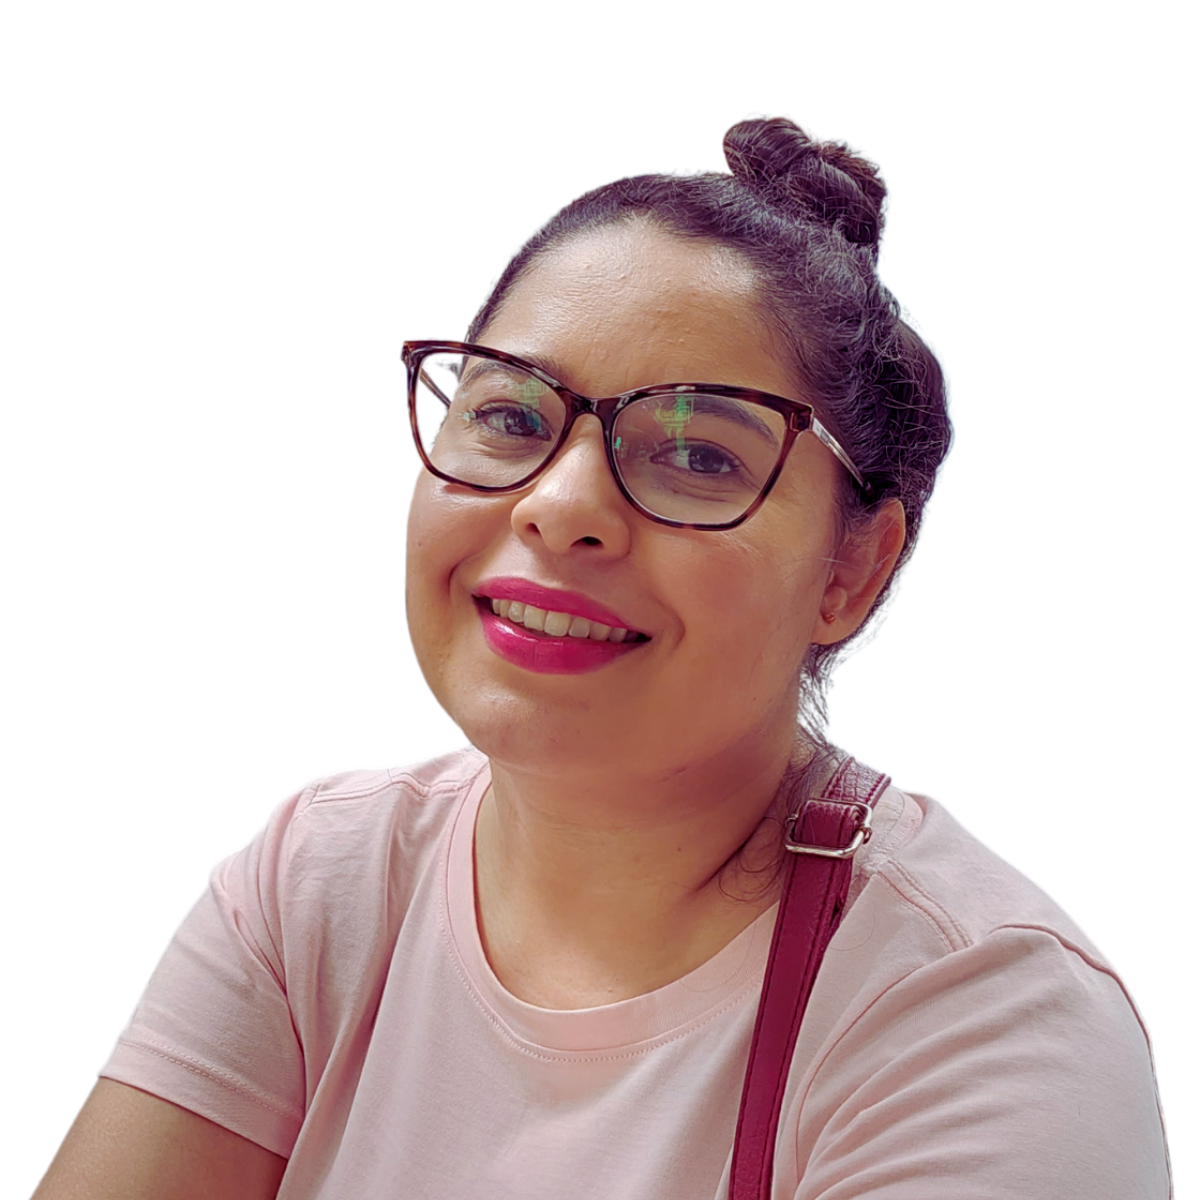
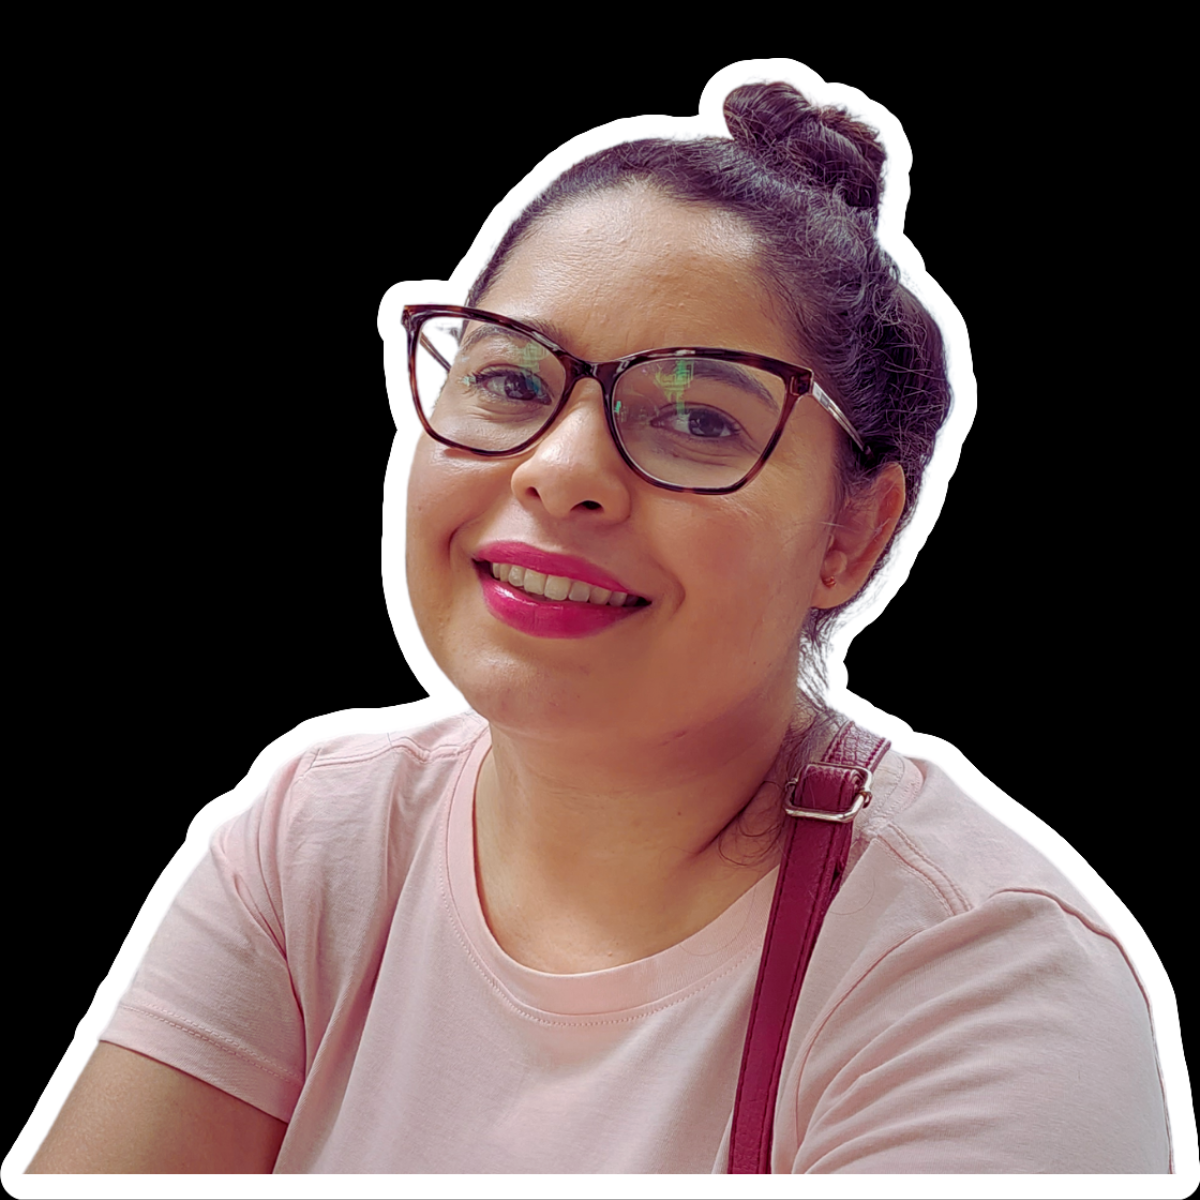
Cria o JS e finaliza o CSS

diff --git a/src/index.html b/src/index.html
@@ -17,59 +17,80 @@
 <body>
   <main class="cartao">
     <div class="minhas-informacoes">
-      <img class="foto" src="./image/AyanaraNathane.png" alt="AyanaraNathane" width="200">
+      <img class="foto" src="./image/AyanaraFundoamarelo.png" alt="AyanaraNathane" width="200">
       <h1 class="nome">Ayanara Nathane</h1>
       <h3 class="cargo">Estudante de Desenvolvimento Web</h3>
       <h3 class="cargo">Full-Stack</h3>
     </div>
     <div class="conteudo">
       <ul class="abas">
-        <li class="aba selecionada">
-          <i class="bi bi-person-heart"></i>
+        <li class="aba selecionado" id="sobre-mim">
+          <h1 class="bi bi-house-heart-fill"></h1>
         </li>
-        <li class="aba">
-          <i class="bi bi-share-fill"></i>
+        <li class="aba" id="minhas-redes">
+          <h1 class="bi bi-share-fill"></h1>
         </li>
-        <li class="aba">
-          <i class="bi bi-chat-left-heart-fill"></i>
+        <li class="aba" id="contato">
+          <h1 class="bi bi-chat-left-heart-fill"></h1>
         </li>
 
       </ul>
 
       <div class="informacoes-abas">
-        <div class="informacoes selecionado">
+        <div class="informacoes selecionado" id="informacao-sobre-mim">
           <h3>Sobre mim</h3>
           <div>
             <p>Oi! meu nome é Ayanara Nathane, seja bem vindas e vindos!</p>
             <p>Sempre em busca de conhecimento e novos aprendizados.
               Atualmente sou estudante de <span>desenvolvimento WEB, Full-Stack.</span>
               Programar esta sendo um desafio constante, porém, uma experiência 
-              muito gratificante. Além de estudar  Front End e Back End, também 
+              muito gratificante. Além de estudar  <span>Front-End e Back-End</span> , também 
               gosto de estudar <span>User experience</span> , pois encontrei nessa área uma 
               forma de melhor suprir as necessidades do usuário. 
-              E não posso esquecer da minha  formação em Licenciatura em 
-              Ciências Sociais, tendo como maior interesses tudo que  envolve o 
+              E não posso esquecer da minha formação em <span>
+              Ciências Sociais</span>, tendo como maior interesses tudo que  envolve o 
               ser humano, a sociedade e seu desenvolvimento social.</p>
           </div>
         </div>
       
-      <div class="redes-sociais">
-        <h3>Minhas redes</h3>
+      <div class="redes-sociais informacoes" id="informacao-minhas-redes">
+        <h3>Minhas Redes</h3>
         <ul>
-          <li><a href="https://www.linkedin.com/in/ayanara/" target="_blank">Linkedin</a></li>
-          <li><a href="https://github.com/ayanara" target="_blank">GitHub</a></li>
-          <li><a href="https://www.behance.net/ayanaranathane" target="_blank">Behance</a></li>
+          <li>
+            <a class="bi bi-linkedin"
+            href="https://www.linkedin.com/in/ayanara/" 
+            target="_blank">Linkedin</a>
+          </li>
+          <li>
+            <a class="bi bi-github"
+            href="https://github.com/ayanara" 
+            target="_blank">GitHub</a>
+          </li>
+          <li>
+            <a class="bi bi-behance"
+            href="https://www.behance.net/ayanaranathane" 
+            target="_blank">Behance</a>
+          </li>
         </ul>
       </div>
-      <div class="contato">
+      <div class="contato informacoes" id="informacao-contato">
         <h3>Contado</h3>
-        <p>Fale comigo</p>
+        <form class="form">
+          <div>
+            <input type="text" id="name" name="name" placeholder="Seu nome">
+            <input type="email" id="email" name="email" placeholder="Seu email">
+            <textarea name="duvida" rows="4" cols="50" placeholder="Sua mensagem"></textarea>
+            <button type="submit">Enviar</button></div>
+        </form>
+        
         
       </div>
     </div>
   </div>
 
   </main>
+
+  <script src="./index.js/index.js"></script>
   
 </body>
 </html>

diff --git a/src/CSS/style.css b/src/CSS/style.css
@@ -6,7 +6,7 @@
 
 * {
   scrollbar-width: thin;
-  scrollbar-color: #e228d8 #070d12;
+  scrollbar-color: #FB2576 #000000;
 }
 
 
@@ -21,20 +21,19 @@ a {
 
 body {
   background-image: url(../image/background.jpg);
-
   font-family:'IBM Plex Mono', monospace;
   color: aliceblue;
   font-size: 18px;
   display: flex;
   justify-content: center;
-  align-items: center;
   min-height: 100vh;
   padding: 40px;
 }
 
 .cartao {
-background-color: #c2388f;
-border: 2px solid white;
+background-color: #000000 40%;
+border: 2px solid #FB2576;
+box-shadow: 0px 4px 4px rgba(0, 0, 0, 0.25);
 width: 500px;
 border-radius: 10px;
 overflow: hidden;
@@ -48,23 +47,32 @@ overflow: hidden;
 }
 
 .foto {
-  border-radius: 100px;
-  border: 4px solid rgb(141, 141, 231);
+  border-radius: 150px;
+  border: 8px solid #3F0071;
+}
+
+.foto:hover {
+  animation-name: icons-animation;
+  animation-duration: 2s;
+  animation-iteration-count: infinite;
+  animation-timing-function: linear;
 }
 
 .nome {
   font-size: 26px;
-  color: #b8bbc5;
+  color: aliceblue;
 }
 
 .cargo {
   font-size: 18px;
-  color: #b8bbc5;
+  color: aliceblue;
 }
 
 .conteudo {
-  background-color: #b8bbc5;
+  background-color: aliceblue;;
   margin-top: 20px;
+  height: 100%;
+
 }
 
 .abas {
@@ -76,28 +84,55 @@ overflow: hidden;
   width: 50%;
   display: flex;
   justify-content: center; 
-  padding: 20px;
+  padding: 15px;
   cursor: pointer;
-  transition: background-color 0. 2s ease-in-out;
-}
 
-.aba.selecionada {
-  background-color: rebeccapurple;
-}
-
-.cartao .informacoes-abas {
-  background-color: rebeccapurple;
-  margin-bottom: 25px;
 }
 
 .aba:hover {
-  background-color: white;
+  background-color: #cfb0e9;
 }
+
+.aba.selecionado {
+  background-color: #3F0071;
+  
+}
+
+.aba:hover {
+  animation-name: icons-animation;
+  animation-duration: 2s;
+  animation-iteration-count: infinite;
+  animation-timing-function: linear;
+}
+
+.bi-house-heart-fill{
+  color: #FB2576;
+}
+
+
+.bi-share-fill {
+  color: #FB2576;
+  
+  
+}
+
+.bi-chat-left-heart-fill {
+  color: #FB2576;
+  
+}
+
+.cartao .informacoes-abas {
+  background-color: #3F0071;
+  height: 100%;
+  
+}
+
 
 .informacoes {
   min-height: 260px;
   padding: 20px;
   display: none;
+  
   
 }
 
@@ -118,15 +153,15 @@ overflow: hidden;
 }
 
 span {
-  color: green;
+  color: #3EC70B;
+  font-weight: bold;
 }
 
 .redes-sociais {
   display: flex;
   display: none;
   flex-direction: column;
-  gap: 25px;
-  align-items: center;
+
 }
 
 .redes-sociais h3 {
@@ -135,21 +170,94 @@ span {
   text-align: center;
 }
 
+.redes-sociais ul {
+  display: flex;
+  flex-direction: column;
+  align-items: center;
+
+
+}
+
 .redes-sociais li a {
-  background-color: aqua;
   width: 250px;
+  border-radius: 5px;
   display: block;
   margin: 25px;
   text-align: center;
-  color: #b8bbc5;
   padding: 10px;
 
 }
 
+.bi-linkedin {
+  background: #0e76a8;
+  color: white;
+}
+
+.bi-github {
+  background:#171515;
+  color: white;
+}
+
+.bi-behance {
+  background: white;
+  color: #000000;
+}
+
 .redes-sociais li a:hover {
-  background-color: white;
+  background-color: rgb(194, 187, 187);
 }
 
 .contato {
   display: none;
+}
+
+
+@keyframes icons-animation {
+
+  100% {
+    transform: scale(1.3);
+  }
+
+}
+
+form {
+    display: flex;
+    justify-content: center;
+}
+
+form  div {
+  background: white;
+  border-radius: 20px;
+  display: flex;
+  flex-direction: column;
+  align-items: center;
+  padding: 20px;
+  gap: 20px;
+  box-shadow: 0 .5rem 1rem rgba(0,0,0,.1);
+}
+
+input {
+  width: 350px;
+  padding: 10px;
+  border: 1px solid #3D495C;
+  border-radius: 6px;
+  
+}
+
+textarea {
+  width: 350px;
+  border: 1px solid #3D495C;
+  border-radius: 6px;
+  padding-top: 5px;
+  padding-left: 5px;
+}
+
+button {
+  padding: 8px 32px;
+  gap: 10px;
+  background:  #FB2576;
+  color: aliceblue;
+  border-radius: 4px;
+  border: none;
+  box-shadow: 0 .5rem 1rem rgba(0,0,0,.1);
 }

diff --git a/src/index.js/index.js b/src/index.js/index.js
@@ -1,0 +1,22 @@
+const abas = document.querySelectorAll(".aba")
+
+abas.forEach(aba => {
+  aba.addEventListener("click", () => {
+
+    if(aba.classList.contains("selecionado")) {
+      return;
+    }
+      const abaselecionado = document.querySelector(".aba.selecionado");
+      abaselecionado.classList.remove("selecionado");
+      aba.classList.add("selecionado");
+
+      const informacao = document.querySelector(".informacoes.selecionado");
+      informacao.classList.remove("selecionado");
+
+      const idElementoAba01 = `informacao-${aba.id}`
+
+      const abaMostrada = document.getElementById(idElementoAba01)
+
+      abaMostrada.classList.add("selecionado")
+    });
+})
